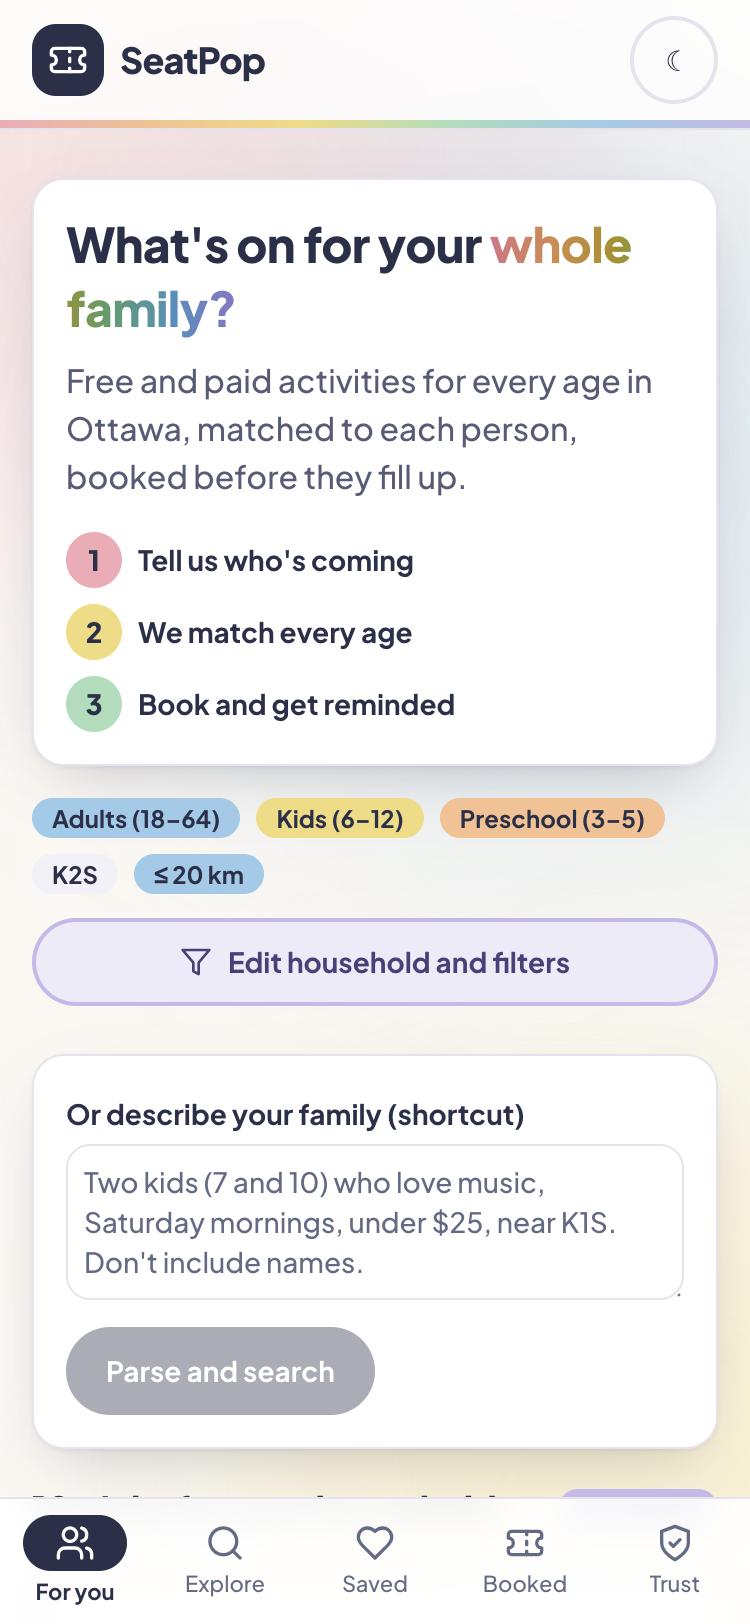
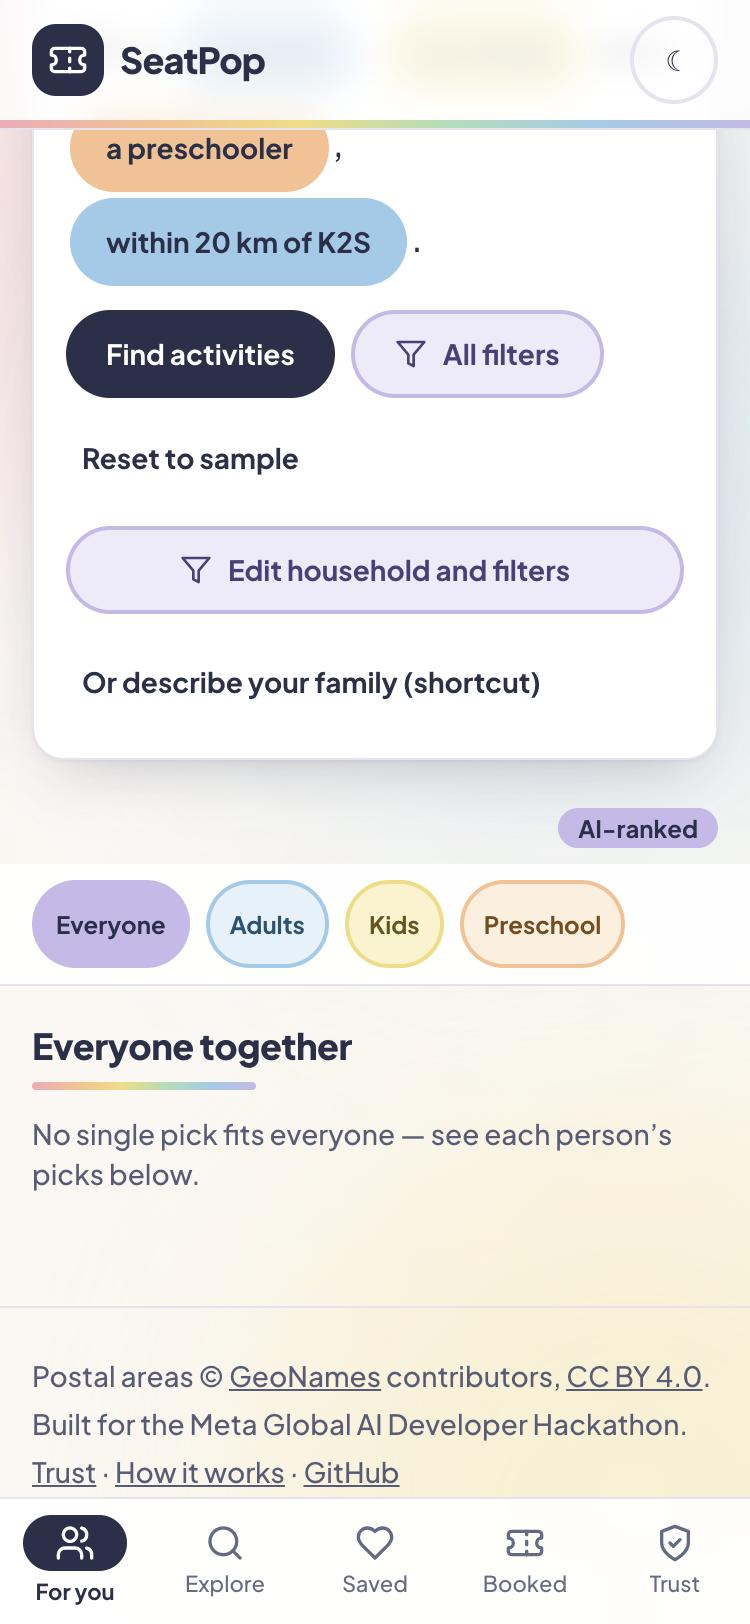
Together: neutral reasons and caregiver-only gating; refresh screenshots

diff --git a/apps/web/src/lib/per-person.ts b/apps/web/src/lib/per-person.ts
@@ -14,7 +14,9 @@ import {
  * range overlaps every member's own band, plus ageless picks (null
  * ages fit no band verifiably and every band possibly; their "check
  * the age group" flag travels with them). Adjacent-without-overlap
- * never qualifies for together. Each band column holds that band's
+ * never qualifies for together, and caregiver-only picks (parenting,
+ * prenatal, infant feeding, ...) qualify only with a grown-up member
+ * (adults or seniors band) selected. Each band column holds that band's
  * exact fits, then adjacent fits that are exact for no other member
  * — an adjacent pick exact elsewhere reads as a wrong-member pick,
  * since its reason names the exact band. Within a tier, broader age
@@ -29,6 +31,7 @@ export interface PerPersonItem {
   event_id: string;
   age_min: number | null;
   age_max: number | null;
+  title?: string;
 }
 
 export interface MemberColumn<T> {
@@ -61,6 +64,20 @@ export function bandCoverage(
       1,
   );
   return overlap / width;
+}
+
+/**
+ * Caregiver-only audience from title keywords (parent/parenting,
+ * caregiver, prenatal, infant feeding, grandparent compounds).
+ * Bounded word stems: "Apparent ..." does not match, plurals do.
+ * Title only — descriptions legitimately mention parents.
+ */
+export function isCaregiverOnly(title: string | undefined): boolean {
+  if (!title) return false;
+  return (
+    /\b(grandparent\w*|parent\w*|caregiver\w*|prenatal\w*)\b/i.test(title) ||
+    /\binfant[-\s]+feeding\b/i.test(title)
+  );
 }
 
 /**
@@ -176,27 +193,46 @@ export function columnReason(
 }
 
 /**
- * Together-context reason: a good-for clause naming only some of the
- * served bands is expanded to name every served band, so a together
- * card never spotlights one member. Clauses already complete, and
- * reasons without a band list, pass through untouched.
+ * Drop a "close to ... age" clause: a together pick overlaps every
+ * band by construction, so hedging about fit is always wrong there.
+ * The lookahead keeps proximity claims ("close to the library").
+ */
+function stripCloseToAge(reason: string): string {
+  return reason
+    .replace(
+      /,?\s*close to (?=[^,;()]*\bages?\b)[^,;()]*?\bages?\b(\s+group|\s+range)?(\s*\((?:inferred|stated)\))?/gi,
+      "",
+    )
+    .replace(/\s{2,}/g, " ")
+    .replace(/\s+([,.;])/g, "$1")
+    .replace(/^[\s.,;]+/, "")
+    .trim();
+}
+
+/**
+ * Together-context reason: close-to-age hedging is stripped (a
+ * together pick overlaps every band), and a good-for clause naming
+ * only some of the served bands is expanded to name every served
+ * band, so a together card never spotlights one member. Complete,
+ * neutral, and ageless reasons pass through untouched.
  */
 export function togetherReason(
   reason: string,
   ages: { age_min: number | null; age_max: number | null },
   bands: AgeBand[],
 ): string {
-  if (ages.age_min === null && ages.age_max === null) return reason;
+  const stripped = stripCloseToAge(reason);
+  if (ages.age_min === null && ages.age_max === null) return stripped;
   const served = bands.filter((band) => overlapsStatedBand(ages, band));
-  if (served.length === 0) return reason;
-  const head = reason.match(/\b[Gg]ood for your /);
-  if (!head || head.index === undefined) return reason;
+  if (served.length === 0) return stripped;
+  const head = stripped.match(/\b[Gg]ood for your /);
+  if (!head || head.index === undefined) return stripped;
   const alt = AGE_BANDS.map(labelPattern).join("|");
   const start = head.index + head[0].length;
-  const first = reason
+  const first = stripped
     .slice(start)
     .match(new RegExp(`^\\s*(${alt})\\b`));
-  if (!first || !first[1]) return reason;
+  if (!first || !first[1]) return stripped;
   const named = new Set<AgeBand>();
   const add = (text: string): void => {
     const band = bandOfLabel(text);
@@ -205,20 +241,20 @@ export function togetherReason(
   add(first[1]);
   let pos = start + first[0].length;
   for (;;) {
-    const next = reason
+    const next = stripped
       .slice(pos)
       .match(new RegExp(`^\\s*(?:,|and)\\s+(${alt})\\b`));
     if (!next || !next[1]) break;
     add(next[1]);
     pos += next[0].length;
   }
-  if (served.every((band) => named.has(band))) return reason;
+  if (served.every((band) => named.has(band))) return stripped;
   const labels = served.map((band) => coverBandLabel(band));
   const joined =
     labels.length > 1
       ? `${labels.slice(0, -1).join(", ")} and ${labels[labels.length - 1] as string}`
       : (labels[0] as string);
-  return reason.slice(0, start) + joined + reason.slice(pos);
+  return stripped.slice(0, start) + joined + stripped.slice(pos);
 }
 
 export function groupPerPerson<T extends PerPersonItem>(
@@ -253,10 +289,13 @@ export function groupPerPerson<T extends PerPersonItem>(
         levelOf(id, memberIndex.get(other) as number) === "exact",
     );
   const togetherIds = new Set<string>();
+  const hasGrownUp =
+    memberIndex.has("adults") || memberIndex.has("seniors");
   const together =
     bands.length <= 1
       ? []
       : items.filter((item) => {
+          if (isCaregiverOnly(item.title) && !hasGrownUp) return false;
           if (item.age_min === null && item.age_max === null) {
             togetherIds.add(item.event_id);
             return true;

diff --git a/apps/web/tests/per-person.test.ts b/apps/web/tests/per-person.test.ts
@@ -3,6 +3,7 @@ import type { Preferences } from "@seatpop/shared";
 import {
   columnReason,
   groupPerPerson,
+  isCaregiverOnly,
   togetherReason,
 } from "../src/lib/per-person";
 import { SAMPLE_HOUSEHOLD } from "../src/lib/household";
@@ -67,6 +68,30 @@ describe("groupPerPerson", () => {
       members,
     );
     expect(ids(together)).toEqual(["all", "span"]);
+  });
+
+  it("keeps caregiver-only picks out of together without an adult", () => {
+    // Reported: "Parenting in Ottawa" sat in together for a
+    // Preschool+Kids household. Caregiver-only picks need a
+    // grown-up member; otherwise they show nowhere.
+    const kidsOnly: Preferences["members"] = [
+      { age_band: "preschool", include_adjacent: true },
+      { age_band: "kids", include_adjacent: true },
+    ];
+    const parenting = {
+      ...row("parenting", null, null),
+      title: "Parenting in Ottawa",
+    };
+    const alone = groupPerPerson([parenting], kidsOnly);
+    expect(alone.together).toEqual([]);
+    for (const column of alone.columns) {
+      expect(ids(column.picks)).toEqual([]);
+    }
+    const withAdult = groupPerPerson(
+      [parenting],
+      [...kidsOnly, { age_band: "adults", include_adjacent: true }],
+    );
+    expect(ids(withAdult.together)).toEqual(["parenting"]);
   });
 
   it("keeps the check-age flag on ageless together picks", () => {
@@ -284,6 +309,47 @@ describe("columnReason", () => {
   });
 });
 
+describe("isCaregiverOnly", () => {
+  it("matches caregiver-audience titles, any case", () => {
+    for (const title of [
+      "Parenting in Ottawa",
+      "New parent meetup",
+      "Parents' night out",
+      "Caregiver coffee morning",
+      "Prenatal yoga",
+      "Infant feeding support",
+      "Infant-feeding clinic",
+      "Grandparents Day tea",
+    ]) {
+      expect(isCaregiverOnly(title)).toBe(true);
+    }
+  });
+
+  it("leaves ordinary and lookalike titles alone", () => {
+    for (const title of [
+      "Family storytime",
+      "The Apparent Heir",
+      "Saturday swim",
+      "",
+    ]) {
+      expect(isCaregiverOnly(title)).toBe(false);
+    }
+    expect(isCaregiverOnly(undefined)).toBe(false);
+  });
+
+  it("counts a senior member as a grown-up for together", () => {
+    const members: Preferences["members"] = [
+      { age_band: "kids", include_adjacent: true },
+      { age_band: "seniors", include_adjacent: true },
+    ];
+    const { together } = groupPerPerson(
+      [{ ...row("parenting", null, null), title: "Parenting in Ottawa" }],
+      members,
+    );
+    expect(ids(together)).toEqual(["parenting"]);
+  });
+});
+
 describe("togetherReason", () => {
   it("expands a single-band clause to every served band", () => {
     expect(
@@ -314,6 +380,47 @@ describe("togetherReason", () => {
     expect(
       togetherReason(
         "Good for your 18-64 adult (inferred)",
+        row("e", 3, 12),
+        ["preschool", "kids"],
+      ),
+    ).toBe("Good for your 3-5 preschooler and 6-12 kid (inferred)");
+  });
+
+  it("strips close-to-age claims, keeping the neutral facts", () => {
+    expect(
+      togetherReason(
+        "Storytime on 2026-11-07, Free (stated), close to your baby's and preschooler's ages (inferred)",
+        row("e", 1, 3),
+        ["baby", "preschool"],
+      ),
+    ).toBe("Storytime on 2026-11-07, Free (stated)");
+    expect(
+      togetherReason(
+        "Family storytime with stay-and-play (stated), close to preschool age (inferred)",
+        row("e", 0, 5),
+        ["baby", "preschool"],
+      ),
+    ).toBe("Family storytime with stay-and-play (stated)");
+  });
+
+  it("strips close-to-age even for ageless picks, keeps proximity", () => {
+    expect(
+      togetherReason(
+        "Free play (stated), close to preschool age (inferred)",
+        row("e", null, null),
+        ["preschool", "kids"],
+      ),
+    ).toBe("Free play (stated)");
+    const near = "Two blocks away, close to the library (stated)";
+    expect(togetherReason(near, row("e", 0, 5), ["baby", "preschool"])).toBe(
+      near,
+    );
+  });
+
+  it("strips close-to and expands naming in one pass", () => {
+    expect(
+      togetherReason(
+        "Good for your 3-5 preschooler (inferred), close to kids age",
         row("e", 3, 12),
         ["preschool", "kids"],
       ),

diff --git a/apps/web/tests/home-markup.test.ts b/apps/web/tests/home-markup.test.ts
@@ -226,6 +226,7 @@ describe("home page markup", () => {
 
   it("qualifies together by band overlap and names every band", () => {
     expect(GROUPING).toContain("overlapsStatedBand(item, band)");
+    expect(GROUPING).toContain("isCaregiverOnly(item.title)");
     expect(GROUPED).toContain("togetherReason(item.reason, item, bands)");
     expect(GROUPED).toContain("bands={columns.map((column) => column.band)}");
   });
